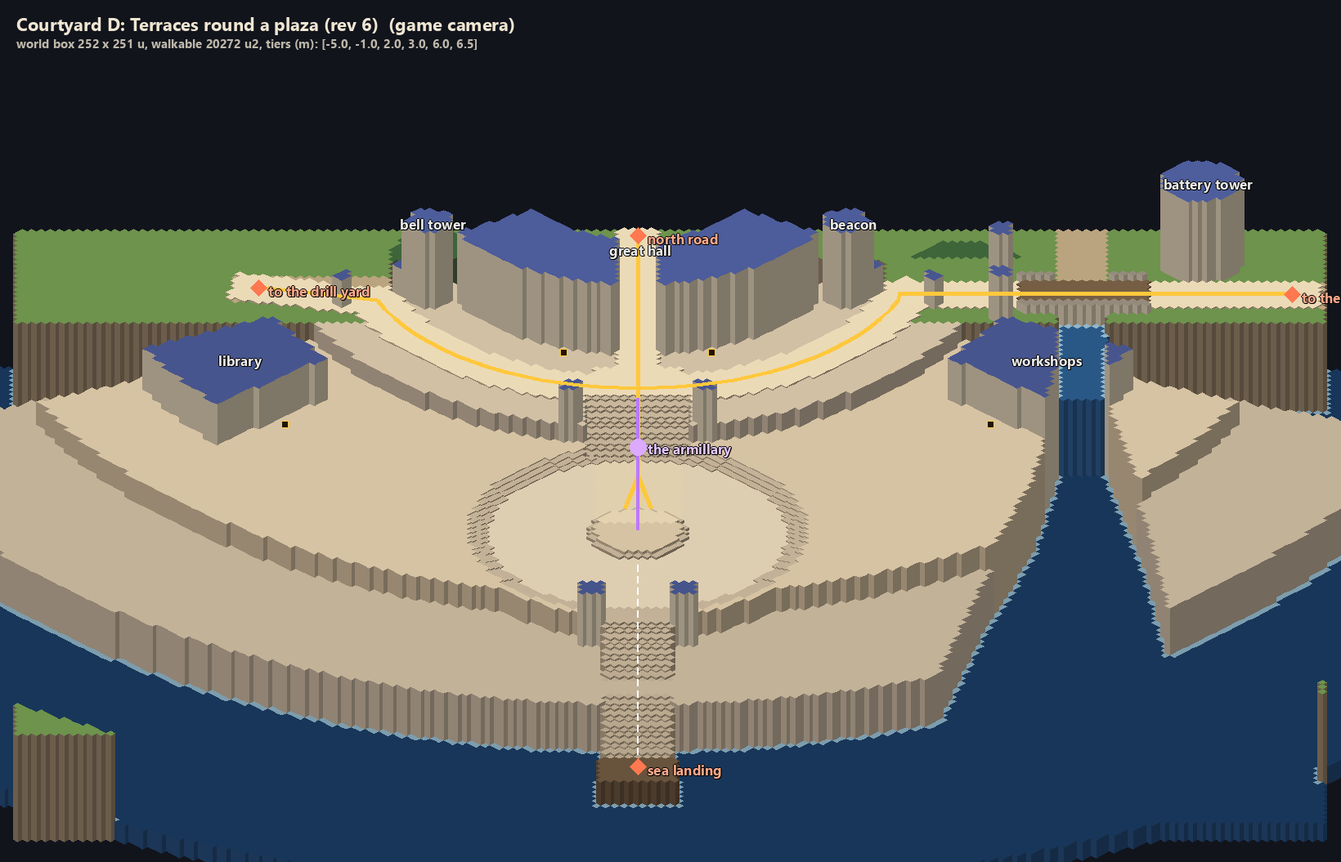
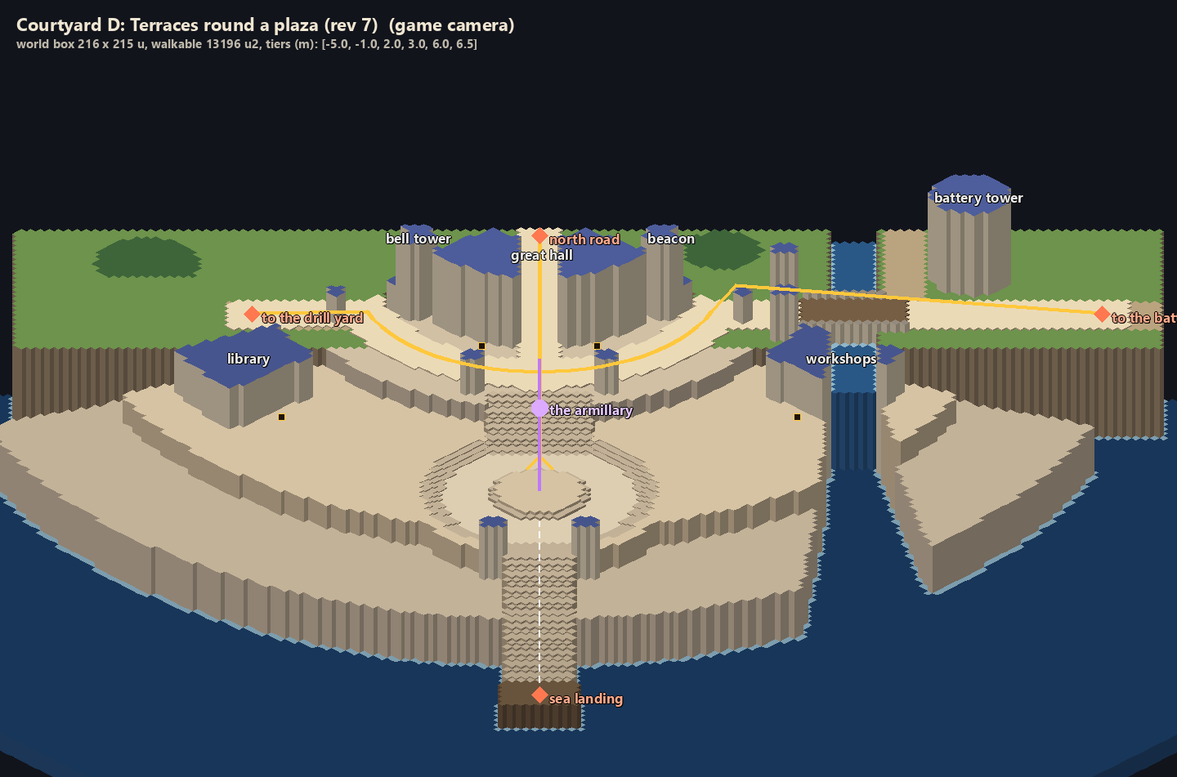
Courtyard D rev 7: pulled together after the first in-game flow round (4/10, too big at play zoom); principle 21, measure routes in screens
Claude-Session: https://claude.ai/code/session_01JAzvjimAGaEKKq76NLS6sr

diff --git a/tools/segments/01-opening/segment.js b/tools/segments/01-opening/segment.js
@@ -120,12 +120,12 @@ concepts:[
   [`B, the Terraces (7/10).`,` A descent to the sea in three curved terraces, like an amphitheatre facing the camera. You arrive on the top terrace and look down on everything. The critic: the best height and edges, but the armillary sat on a cramped bastion at the cliff, and there was no north road.`],
   [`C, the Chasm (6/10).`,` The wild one: the octagon split by a sea inlet, the armillary on an island between two cliffs, reached by bridges, a waterfall behind it. The critic: the best landmark pull, a poor fight floor (two thin wings and a small island).`],
   [`D, the critic's mix (my pick).`,` B as the base, with A's round plaza and north gate and C's sea inlet. The middle terrace opens into a round plaza sunk a metre in rings of steps, the armillary at its heart: the finale's floor, with a balcony above it. Broad stairs (the critic's warning about a charging beast in narrow ones). The battery road crosses the inlet on a bridge you look down from. The north road goes through the great hall.`],
-  [`Flow, four rounds (after you chose D).`,` A flow critic walked each route as real-size screens, blind first. Round 1 gave 4/10: from the yard and the battery the armillary showed only 7 screens in. Our camera only shows a tall landmark from far away when you walk down the screen towards it, so every main arrival now comes along a balcony road in front of the great hall and down one grand stair onto the armillary (revision 5, the first picture). Rounds 2 to 4 held at 5/10, and the critic said the rest is light and paving, which the grey-box will show. Four new rules came out of it (docs/campaign/level-design.md, 18 to 20).`],
+  [`Flow, four rounds (after you chose D).`,` A flow critic walked each route as real-size screens, blind first. Round 1 gave 4/10: from the yard and the battery the armillary showed only 7 screens in. Our camera only shows a tall landmark from far away when you walk down the screen towards it, so every main arrival now comes along a balcony road in front of the great hall and down one grand stair onto the armillary (revision 5, the first picture). Rounds 2 to 4 held at 5/10, and the critic said the rest is light and paving, which the grey-box will show. Four new rules came out of it (docs/campaign/level-design.md, 18 to 20). Then the first grey-box in the game (4/10): at play zoom the balcony arc was 8 screens of the same and the dais never shared a frame with the balcony, so revision 7 pulls everything together (rule 21: measure routes in screens).`],
   [`The journey.`,` You asked to diagram the paths the player takes, to say what we want from each. The third picture numbers every pass through the courtyard in the brief's order, with what each should feel like: the briefing, out to the yard, the reveal on the way back, the homecoming after the battery, the north road's approach, the finale climbing from the sea. It shows the balcony arc carries most of the traffic, so the plaza is a destination. Which exit leads to which stop: my proposal, which you approved.`],
   [`What comes next.`,` The plan you pick becomes a walkable grey-box with real cliffs and stairs, and a flow critic walks it at play zoom. That needs height in the engine, which it doesn't have (the second question). Art comes last.`],
  ],
  images:[
-  ['img/court-plan-d5.png','Grey-box plan D, revision 5: a balcony road arcs along the top terrace in front of the great hall, from the drill yard’s seam on the west past a bell tower to a beacon and a parapeted bridge over the falls to the battery’s tower on the east; a grand stair between two pylons drops from the arc’s middle onto the armillary in the sunken round plaza; a gateway and a straight stair lead down to the sea landing.','D, revision 6: every main arrival comes down the screen onto the armillary, and the whole plan walks under the engine\u2019s step rule.'],
+  ['img/court-plan-d5.png','Grey-box plan D, revision 5: a balcony road arcs along the top terrace in front of the great hall, from the drill yard’s seam on the west past a bell tower to a beacon and a parapeted bridge over the falls to the battery’s tower on the east; a grand stair between two pylons drops from the arc’s middle onto the armillary in the sunken round plaza; a gateway and a straight stair lead down to the sea landing.','D, revision 7: every main arrival comes down the screen onto the armillary, pulled together after the first walk in the game showed it too big at play zoom.'],
   ['img/court-journey-d5.png','Plan D from above with six numbered passes drawn as coloured arrows: 1 the briefing at the dais; 2 up the grand stair and west along the balcony arc to the drill yard; 3 back from the yard along the whole arc and east over the bridge; 4 back from the battery, down to the dais and up through the great hall to the north road; 5 down the north road to the dais, back up and east past the falls to the gorge; 6 up from the sea landing to the dais. A legend gives each pass\u2019s purpose.','The journey: every pass through the courtyard, in order, and the moment each should give.'],
   ['img/court-plan-d.png','Grey-box plan D in the game camera: three curved terraces descending to the sea, a round sunken plaza with the armillary at the centre of the middle terrace, the great hall at the top with the north road through it, a sea inlet and waterfall on the east crossed by the battery road’s bridge.','D as first drawn, before the flow rounds.'],
   ['img/court-plan-b.png','Grey-box plan B: three curved terraces like an amphitheatre facing the sea, the armillary on a round bastion jutting over the lowest terrace.','B, the Terraces.'],

diff --git a/tools/place-plans/plans/court-d.py b/tools/place-plans/plans/court-d.py
@@ -29,98 +29,99 @@ the grey-box.
 Revision 6 (to_ldtk.py --report, the engine's step rule: more than 0.5 m between neighbouring cells is a cliff; flights
 want about 3 u of run per metre along a screen vertical): the grand stair runs 12 u straight from the balcony down to
 the sunk floor; the dais rises in two 0.5 m rings instead of four steep flights; the stair to the sea court is 12 u; the
-sea landing is a quay at -5 m, 12 u of stair below the sea court."""
+sea landing is a quay at -5 m, 12 u of stair below the sea court.
+
+Revision 7 (the first in-game flow round, 4/10): at play zoom the plan was too big. The arc was about 8 near-identical
+screens and the dais never shared a frame with the balcony. Everything is pulled together: the arc's radius 43 -> 28
+(about 1.2 screens a side), the grand stair's head about 25 u from the dais (the armillary's 14 m rises into frame from
+there), a smaller sunk floor, shorter runs to the gates, the bridge and the quay."""
 import sys, os; sys.path.insert(0, os.path.join(os.path.dirname(__file__), '..'))
 from plan import *
 
-P = Plan('court-d', 'Courtyard D: Terraces round a plaza (rev 6)', U=(-95, 105), V=(-68, 86))
-C = (0, -62)          # the amphitheatre's centre, up the screen
-ARM = polar(C, 80, 90)  # (0, 18)
+P = Plan('court-d', 'Courtyard D: Terraces round a plaza (rev 7)', U=(-80, 95), V=(-56, 72))
+C = (0, -40)            # the amphitheatre's centre, up the screen
+ARM = (0, 18)
 SEA = -9.0
 def toward(a, b, d):  # the point d along from a towards b
     L = math.dist(a, b); return (a[0] + (b[0] - a[0]) * d / L, a[1] + (b[1] - a[1]) * d / L)
-def bearing(a, b): return math.degrees(math.atan2(b[1] - a[1], b[0] - a[0]))
 
-P.fill(rect(-95, -68, 105, 86), 6.0, 'grass')
-for c, r in [((-84, -20), 11), ((-30, -60), 8), ((50, -56), 9), ((-80, 18), 7)]:
+P.fill(rect(-80, -56, 95, 72), 6.0, 'grass')
+for c, r in [((-60, -46), 8), ((28, -50), 6), ((-66, -8), 6)]:
     P.fill(circle(c, r), 6.0, 'trees')
 # the sea and the terraces cut into the hillside
-P.fill(arc_band(C, 0, 168, 5, 175), SEA, 'deep')
-P.fill(arc_band(C, 0, 126, 20, 160), -1.0, 'paving')        # the sea court
-P.fill(arc_band(C, 0, 100, 24, 156), 3.0, 'plaza')          # the middle terrace
-P.fill(circle(ARM, 27), 3.0, 'plaza')                       # the round plaza's rim, a bastion over the sea court
-for r, h in ((26, 2.75), (25, 2.5), (24, 2.25)):            # sunk a metre in rings of steps
+P.fill(arc_band(C, 0, 150, 5, 175), SEA, 'deep')
+P.fill(arc_band(C, 0, 90, 20, 160), -1.0, 'paving')         # the sea court
+P.fill(arc_band(C, 0, 70, 24, 156), 3.0, 'plaza')           # the middle terrace
+P.fill(circle(ARM, 20), 3.0, 'plaza')                       # the round plaza's rim, a bastion over the sea court
+for r, h in ((18, 2.75), (17, 2.5), (16, 2.25)):            # sunk a metre in rings of steps
     P.fill(circle(ARM, r), h, 'stairs')
-P.fill(circle(ARM, 23), 2.0, 'dais')
-P.fill(arc_band(C, 0, 54, 20, 160), 6.0, 'paving')          # the top terrace, a balcony over the plaza
-P.fill(rect(-95, -60, -38, -40), 6.0, 'grass'); P.fill(rect(38, -60, 105, -40), 6.0, 'grass')   # the land out to the seams
+P.fill(circle(ARM, 15), 2.0, 'dais')
+P.fill(arc_band(C, 0, 38, 20, 160), 6.0, 'paving')          # the top terrace, a balcony over the plaza
+P.fill(rect(-80, -42, -24, -20), 6.0, 'grass'); P.fill(rect(24, -42, 95, -20), 6.0, 'grass')   # the land out to the seams
 P.fill(circle(ARM, 7.5), 2.5, 'stairs'); P.fill(circle(ARM, 6.5), 3.0, 'plaza')   # the dais, in two 0.5 m rings you can step up anywhere
 
-# the north road: straight down through the great hall's gate (the model route)
-P.building(arc_band(C, 18, 32, 30, 150), 6.0, 12.0, 'great hall', doors=[polar(C, 33, 70), polar(C, 33, 110)])
-P.fill(orect(polar(C, 25, 90), 6, 16, math.radians(90)), 6.0, 'path')
-P.fill(rect(-3, -68, 3, -40), 6.0, 'path')
-P.stairs(orect((0, -11), 16, 12, math.radians(90)), 6.0, 2.0, 90)                                    # the grand stair, balcony to the sunk floor
-for du in (-10, 10): P.building(rect(du - 1.5, -12, du + 1.5, -9), 6.0, 6.0)                         # pylons at its head
+# the north road: straight down through the great hall's gate
+P.building(arc_band(C, 8, 20, 35, 145), 6.0, 12.0, 'great hall', doors=[polar(C, 21, 65), polar(C, 21, 115)])
+P.fill(orect(polar(C, 14, 90), 6, 14, math.radians(90)), 6.0, 'path')
+P.fill(rect(-3, -56, 3, -30), 6.0, 'path')
+P.stairs(orect((0, -1), 16, 12, math.radians(90)), 6.0, 2.0, 90)                                     # the grand stair, balcony to the sunk floor
+for du in (-10, 10): P.building(rect(du - 1.5, -9, du + 1.5, -6), 6.0, 6.0)                          # pylons at its head
 
 # the cross road: an arc along the top terrace in front of the hall, from the yard's seam to the battery's
-ARC = [polar(C, 43, a) for a in range(158, 89, -4)] + [polar(C, 43, a) for a in range(90, 21, -4)]
-YARD = (-58, -50)
+ARC = [polar(C, 28, a) for a in range(160, 89, -5)] + [polar(C, 28, a) for a in range(90, 19, -5)]
+YARD = (-44, -30)
 
 # a library and workshops on the middle terrace's wings, doors facing the plaza
 for a0, a1, nm in ((26, 40, 'workshops'), (140, 154, 'library')):
-    P.building(arc_band(C, 62, 84, a0, a1, 10), 3.0, 7.0, nm, doors=[polar(C, 72, a1 + 1.5 if a0 < 90 else a0 - 1.5)])
+    P.building(arc_band(C, 45, 62, a0, a1, 10), 3.0, 7.0, nm, doors=[polar(C, 53, a1 + 2 if a0 < 90 else a0 - 2)])
 
 # the sea landing: straight below the armillary, an axis stair off the plaza's rim, then down the cliff
-P.stairs(orect((0, 51), 10, 12, math.radians(90)), 3.0, -1.0, 90)
-P.stairs(orect(polar(C, 129, 90), 10, 12, math.radians(90)), -1.0, -5.0, 90)
-P.fill(rect(-6, 73, 6, 80), -5.0, 'wood')
-for du in (-7, 7): P.building(rect(du - 1.5, 43, du + 1.5, 46), 3.0, 5.0)                            # the rim's gateway
+P.stairs(orect((0, 44), 10, 12, math.radians(90)), 3.0, -1.0, 90)
+P.stairs(orect((0, 56), 10, 12, math.radians(90)), -1.0, -5.0, 90)
+P.fill(rect(-6, 62, 6, 69), -5.0, 'wood')
+for du in (-7, 7): P.building(rect(du - 1.5, 35, du + 1.5, 38), 3.0, 5.0)                            # the rim's gateway
 
-# the battery: across the head of a sea inlet to the east. The terrace's arc runs on over one parapeted deck above the
-# falls; the battery's tower stands beside the road just beyond, on its north side so it can't hide you
-P.fill([(44, 86), (46, 54), (52, 30), (60, 4), (64, -20), (72, -20), (78, 10), (82, 40), (104, 50), (105, 86)], SEA, 'deep')   # the inlet
-P.fill([(64, -68), (72, -68), (72, -20), (64, -20)], 4.0, 'water')                                                  # the stream above the falls
-P.fill(rect(40, -52, 105, -44), 6.0, 'path')
-P.fill(rect(58, -52, 78, -44), 6.5, 'wood')                                                                         # the deck
-P.building(rect(58, -53, 78, -52), 6.5, 1.0, roof='wall'); P.building(rect(58, -44, 78, -43), 6.5, 1.0, roof='wall')   # parapets
-P.building(rect(54, -56, 57, -53), 6.0, 8.0); P.building(rect(54, -43, 57, -40), 6.0, 8.0)                          # gate towers
-P.building(circle((86, -58), 6), 6.0, 14, 'battery tower')
-BAT = (100, -48)
+# the battery: across the head of a sea inlet to the east, over one parapeted deck above the falls; the battery's tower
+# beside the road just beyond, on its north side so it can't hide you
+P.fill([(38, 72), (40, 40), (43, 10), (44, -10), (52, -10), (58, 20), (64, 45), (95, 52), (95, 72)], SEA, 'deep')   # the inlet
+P.fill([(44, -56), (52, -56), (52, -10), (44, -10)], 4.0, 'water')                                                 # the stream above the falls
+P.fill(rect(24, -34, 95, -26), 6.0, 'path')
+P.fill(rect(40, -34, 56, -26), 6.5, 'wood')                                                                        # the deck
+P.building(rect(40, -35, 56, -34), 6.5, 1.0, roof='wall'); P.building(rect(40, -26, 56, -25), 6.5, 1.0, roof='wall')   # parapets
+P.building(rect(36, -38, 39, -35), 6.0, 8.0); P.building(rect(36, -25, 39, -22), 6.0, 8.0)                         # gate towers
+P.building(circle((66, -42), 6), 6.0, 14, 'battery tower')
+BAT = (86, -30)
+P.fill(rect(53, -56, 59, -34), 6.0, 'path')                                                                        # the gorge path up beside the stream
+GORGE = (56, -52)
 
-# openings in the plaza's ring of steps where each route arrives, and the main routes' own paving
-for brg in (90,):
-    P.stairs(orect(polar(ARM, 25, brg), 10, 6, math.radians(brg)), 2.0, 3.0, brg)
-P.fill(rect(-62, -54, -38, -46), 6.0, 'path')
-P.strip([YARD] + ARC + [polar(C, 43, 20), (40, -48), BAT], 8)
-P.strip([(0, -68), polar(C, 50, 90)], 6); P.strip([polar(C, 43, 90), polar(C, 60, 90), (0, 9)], 14)
+# openings in the plaza's ring of steps, and the main routes' own paving
+P.stairs(orect(polar(ARM, 17, 90), 10, 6, math.radians(90)), 2.0, 3.0, 90)
+P.fill(rect(-48, -34, -24, -26), 6.0, 'path')
+P.strip([YARD] + ARC + [polar(C, 28, 20), (30, -30), BAT], 8)
+P.strip([(0, -56), polar(C, 30, 90)], 6)
 
 for a, nm in ((156, 'bell tower'), (24, 'beacon')):                    # a tall marker at each turn of the arc, on its north side
-    P.building(circle(polar(C, 35, a), 3.5), 6.0, 13.0, nm)
+    P.building(circle(polar(C, 21, a), 3.0), 6.0, 13.0, nm)
 for a in (160, 20):                                                     # threshold pillars where the arc meets each seam
-    for r in (38, 48): P.building(circle(polar(C, r, a), 1.3), 6.0, 5.0)
+    for r in (23, 33): P.building(circle(polar(C, r, a), 1.3), 6.0, 5.0)
 P.h[(P.m == 'road') & (P.h == 6.0)] += 0.3                              # the road a step above the terrace
 P.landmark(ARM, 'the armillary', 14, 8)
-P.gate(YARD, 'to the drill yard'); P.gate(BAT, 'to the battery'); P.gate((0, -66), 'north road'); P.gate((0, 76), 'sea landing')
-P.route([YARD] + ARC[:18] + [polar(C, 62, 90), (-2, 10)], 'main')                                # arriving from the yard
-P.route([BAT, (40, -48)] + ARC[::-1][:18] + [polar(C, 62, 90), (2, 10)], 'main')                  # coming back from the battery
-P.route([(0, -66), polar(C, 50, 90), polar(C, 62, 90), (0, 10)], 'main')   # the north road
-P.route([(0, 76), (0, 56), (0, 26)], 'side')                               # up from the sea landing
-# the journey through the courtyard, in the order of the brief's route (docs/campaign/01-opening/brief.md); which exit
-# leads to which stop is a proposal: the infirmary just outside the main gate on the battery's road, the ward line behind
-# the academy up the north road, the gorge up the stream past the bridge, the harbour and cliff road at the sea landing
-J = polar(C, 43, 90); STAIR = polar(C, 62, 90); ARC_W, ARC_E = ARC[:18], ARC[17:]
-GORGE = (68, -66)
-P.journey([(-8, 32), (0, 27)], 'The briefing at the armillary', 'Start below the dais: the armillary fills the screen, the beam stutters above the masters')
+P.gate(YARD, 'to the drill yard'); P.gate(BAT, 'to the battery'); P.gate((0, -54), 'north road'); P.gate((0, 66), 'sea landing')
+J = polar(C, 28, 90); STAIR = (0, 6); ARC_W, ARC_E = ARC[:15], ARC[14:]
+P.route([YARD] + ARC_W + [STAIR, (-2, 10)], 'main')                                  # arriving from the yard
+P.route([BAT, (30, -30)] + ARC_E[::-1] + [STAIR, (2, 10)], 'main')                    # coming back from the battery
+P.route([(0, -54), J, STAIR, (0, 10)], 'main')                                       # the north road
+P.route([(0, 66), (0, 50), (0, 26)], 'side')                                         # up from the sea landing
+# the journey through the courtyard, in the order of the brief's route; the exits as the user approved (2026-11-22)
+P.journey([(-8, 30), (0, 26)], 'The briefing at the armillary', 'Start below the dais: the armillary fills the screen, the beam stutters above the masters')
 P.journey([(0, 10), STAIR, J] + ARC_W[::-1] + [YARD], 'Out to the drill yard', 'Up the grand stair, west along the balcony; the bell tower marks the turn')
-P.journey([YARD] + ARC_W + ARC_E + [(40, -48), BAT], 'Back from the yard, out through the main gate: the infirmary, then the battery',
-          'The reveal: at the top of the grand stair the armillary is framed between the pylons; the beacon pulls you east')
-P.journey([BAT, (40, -48)] + ARC_E[::-1] + [STAIR, (0, 10), STAIR, J, (0, -66)], 'Back from the battery: the ward bell, then out north to the ward line',
+P.journey([YARD] + ARC_W + ARC_E + [(30, -30), BAT], 'Back from the yard, out through the main gate: the infirmary, then the battery',
+          'The reveal: at the top of the grand stair the armillary rises between the pylons; the beacon pulls you east')
+P.journey([BAT, (30, -30)] + ARC_E[::-1] + [STAIR, (0, 10), STAIR, J, (0, -54)], 'Back from the battery: the ward bell, then out north to the ward line',
           'Homecoming: down the grand stair to the bell at the dais, then up through the great hall')
-P.journey([(0, -66), J, STAIR, (0, 10), STAIR, J] + ARC_E + [(40, -48), (64, -48), GORGE], 'Back from the ward line, out to the gorge',
+P.journey([(0, -54), J, STAIR, (0, 10), STAIR, J] + ARC_E + [(30, -30), (56, -30), GORGE], 'Back from the ward line, out to the gorge',
           'The best approach: straight down the north road onto the armillary; out past the falls')
-P.journey([(0, 76), (0, 56), (0, 44), (0, 27)], 'The finale: up from the sea landing',
+P.journey([(0, 66), (0, 50), (0, 38), (0, 26)], 'The finale: up from the sea landing',
           'The climb from the sea, framed by the rim’s gateway; the armillary torn open above the warband')
-P.fill(rect(64, -68, 72, -52), 6.0, 'path')   # the gorge path up beside the stream
 P.render()
 if "--frames" in sys.argv: P.frames()

diff --git a/docs/campaign/making-a-place.md b/docs/campaign/making-a-place.md
@@ -82,6 +82,7 @@ Every few places, the user reads the log and cuts any stage or rule that isn't p
 | Date | What happened | Which stage should have caught it | Change |
 |---|---|---|---|
 | 2026-11-22 | 7 beauty rounds on the courtyard plateaued at 6/10; the user named four failures: a rectangular layout, no depth, no flow, details that don't make sense | None existed except beauty | This cycle: the read, three divergent plans, flow and sense critics, the sense lint, and the height work in the engine |
+| 2026-11-22 | The first in-game flow round, on the grey-box of plan D rev 6 (`npm run shot:route`): 4/10. At play zoom the plan was too big. The arc walked as 8 near-identical screens, the dais never shared a frame with the balcony, and the reveal couldn't be judged with no armillary in the level. The camera also framed the unlifted ground point, so the wizard sat at the top of the screen on high tiers | Flow, which the flat frames had overrated (5/10) | Principle 21: measure routes in screens. The flow critic always gets the landmark as a volume. Flat frames are a first filter, and the score that counts is in-game. Rev 7 pulls the courtyard together (the arc 43 to 28 u, the stair head about 25 u from the dais). The camera bug and the missing armillary went to the engine thread |
 | 2026-11-22 | The engine's plan-to-level report (`to_ldtk.py --report`) on plan D rev 5: the top terrace, the dais and the sea court were cut off, with 128 jumps inside flights. Four critic rounds had judged a plan that couldn't be walked, because the plan views hide jumps inside flights | Structure and flow | **Every plan revision passes the walk report before a critic sees it** (everything marked reachable from the start, no jumps inside flights). Flights get about 3 u of run per metre of drop along a screen vertical, 2 u along a screen diagonal. Rev 6 fixed the grand stair, the dais, the sea stair and the landing |
 | 2026-11-22 | The user: "should we maybe also diagram the general path(s) we expect the player to take? To help inform the outcome we're looking for." The routes showed where you can walk, but not the order, the direction or what each pass is for | Read | Stage 0 now writes the journey; the plan tool draws it (`journey()`, `out/<name>-journey.png`), and the flow frames follow its passes in walking direction. The courtyard's journey showed most through-traffic stays on the balcony arc: the plaza is a destination, not a crossing |
 | 2026-11-22 | Flow critic, round 4 on plan D rev 4: 5/10 again, the third round in a row without the score moving. The critic: with the seams fixed, only dressing can make the arc's sideways stretches feel led | The cycle itself | **Stopping rule:** when two flow rounds on flat frames don't move the score, and the critic says the rest is dressing, stop. Make its cheap structural fixes (rev 5: markers at the arc's turns, threshold pillars, the road a step up), carry the dressing cues into the grey-box, and judge flow again there with light and paving. Principle 18: a long curve counts as a sideways run |

diff --git a/docs/campaign/level-design.md b/docs/campaign/level-design.md
@@ -33,3 +33,4 @@ The checklist for [making a place](making-a-place.md): the read, the plans and t
 18. **Arrive from the north, on the landmark's axis** (the flow critics, 2026-11-22). The screen is 30 u wide, so anything more than about 15 u to your side (plus half the landmark's width) is off screen, however tall it is. Walking down the screen, a tall landmark rises up the screen towards you, so it shows about its height ÷ 2.5 out: the courtyard's violet beam earns about 4 screens, its 16 u rings about 1. Walking up the screen, it rises away from you and shows only about 10 u out. On a diagonal you stay off to the side until the end. So main arrivals finish with a stretch of about 40 u running down the screen within about 10 u of the landmark's axis, and other approaches need wide cues instead: light, paving lines, a wide structure. A road running across the screen sees nothing on the axis until it reaches the axis, so keep sideways runs under about a screen, or give them their own cue within 15 u. A long curve counts as a sideways run, however gently it bends. Courtyard D's first drafts brought the yard and the battery in from the side, then on diagonals, and the armillary showed 7 screens in.
 19. **Show where you're going when you leave.** A tall shape at the destination (a tower, a beacon, smoke) sits within a screen of the route's last turn.
 20. **Never route behind something tall.** Whatever stands south of you rises up the screen over you: a building of height h metres covers about 1.8 h units of ground north of it. Main routes pass in front of tall buildings, not behind them (round 3 on courtyard D: the cross road behind the great hall hid the player behind its wings).
+21. **Measure routes in screens, at play zoom** (the first in-game round, 2026-11-22). A screen holds about one stair's length. A sideways stretch over about 1.5 screens needs a beat in it (a bay, a view, a marker), and a reveal needs the landmark and the viewer within about one screen. Courtyard D's balcony arc looked graceful from above and walked as 8 near-identical screens.

diff --git a/docs/threads/height.md b/docs/threads/height.md
@@ -34,6 +34,7 @@ Docs: `game/content/README.md` (Height), `docs/current-state.md`, and the room l
 - [ ] Phase 6: `tools/place-plans/` writes an LDtk level from a plan spec (Terrain, Height and Ground layers, plus door, gate and landmark markers). Next up, before phase 4. Test it on the chosen courtyard plan, D revision 5 (`plans/court-d.py`). `tools/place-plans/` exists so far only on branch `worktree-opening-route-docs`, so build this phase on top of it.
 - [ ] Phase 2's one gap: a sim test of a wizard walking up a stair. `content:check` reachability across both of the test room's stairs already covers the nav side.
 - [ ] Phase 4, minimal (after phase 6; the user left the order to Claude and asked for both, 2026-11-22): `zAt(x, y)`, with bodies and props drawn at their tier's height, and cliff faces as flat-coloured strips. That's enough to walk the grey-box and judge flow.
+- [ ] Two fixes from the first in-game flow round (2026-11-22): the camera should follow the wizard's drawn position at height, not the unlifted ground point; and the generated court needs the armillary prop on its dais.
 - [ ] Seams between places (proposed): `content:check` verifies both sides of each seam match. See [the continuous world](../explorations/2026-11-09-continuous-world-todo.md#2026-11-22-the-segment-as-one-map).
 - [ ] Phase 7: the sense lint in `content:check`.
 - [ ] Before any art: phase 3 (shots and height), phase 4 in full (painted cliff faces, effects and lighting at height), phase 5 (buildings sorted by footprint).

diff --git a/docs/threads/opening.md b/docs/threads/opening.md
@@ -10,7 +10,7 @@ The opening is now a chain of eight stops: at each one you fix a machine and get
 
 ## Next
 
-- [ ] The courtyard under the new cycle ([making a place](../campaign/making-a-place.md)): plan D chosen (2026-11-22). Flow on frames done (revision 5, four rounds; [the read](../campaign/01-opening/court-read.md#stage-1-and-2-the-plan-and-flow-on-frames)). Next: the walkable grey-box once the [height thread](height.md) lands, and flow again there with the dressing cues.
+- [ ] The courtyard under the new cycle ([making a place](../campaign/making-a-place.md)): plan D chosen (2026-11-22). Flow on frames done (revision 5, four rounds; [the read](../campaign/01-opening/court-read.md#stage-1-and-2-the-plan-and-flow-on-frames)). The grey-box was walked in-game on 2026-11-22 (4/10: too big at play zoom), so plan D rev 7 pulls it together. Next: the engine session rewrites the Court from rev 7 and adds the armillary, then the in-game flow round again (`npm run shot:route`; it was killed for low memory once).
 - [x] The yard's space diagram and blockout (2026-11-22). Next: the user walks it.
 - [ ] The district's roads as a space diagram with walk times, and where the small fights go.
 - [ ] The infirmary (Life, the first cast): space diagram, Codex concept from the blockout's footprint, then an LDtk blockout. It's the smallest test of the new shape.
